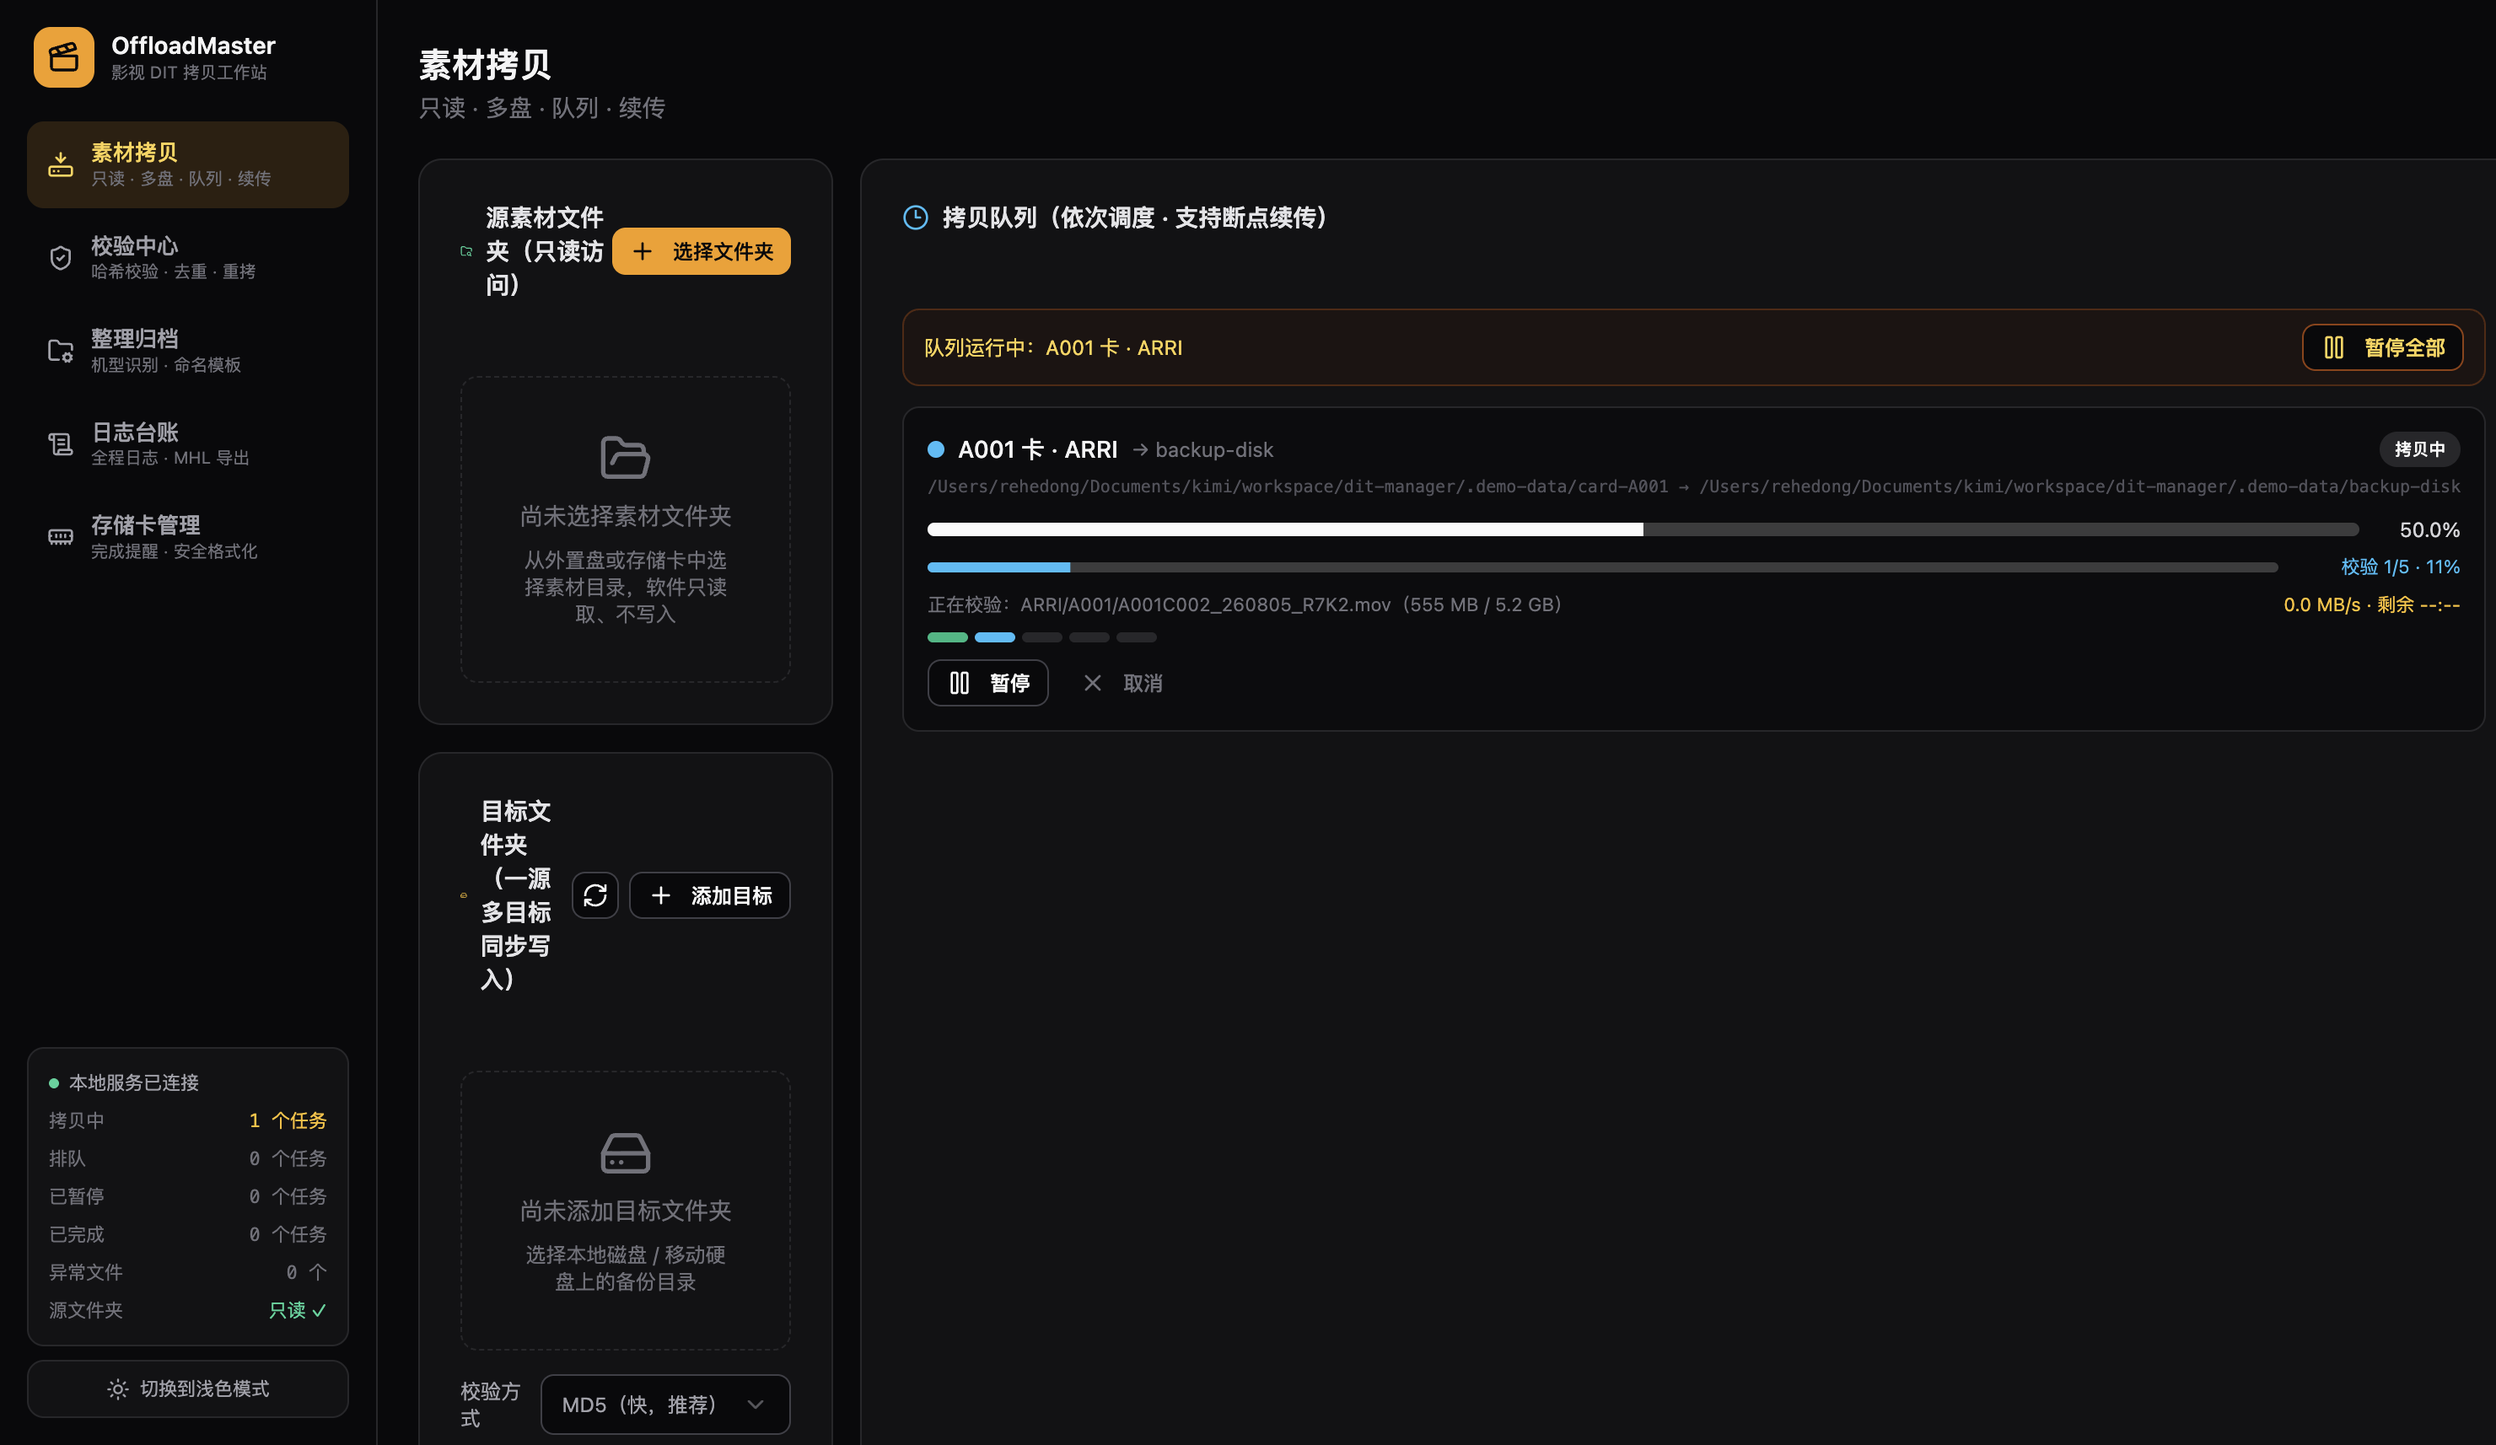
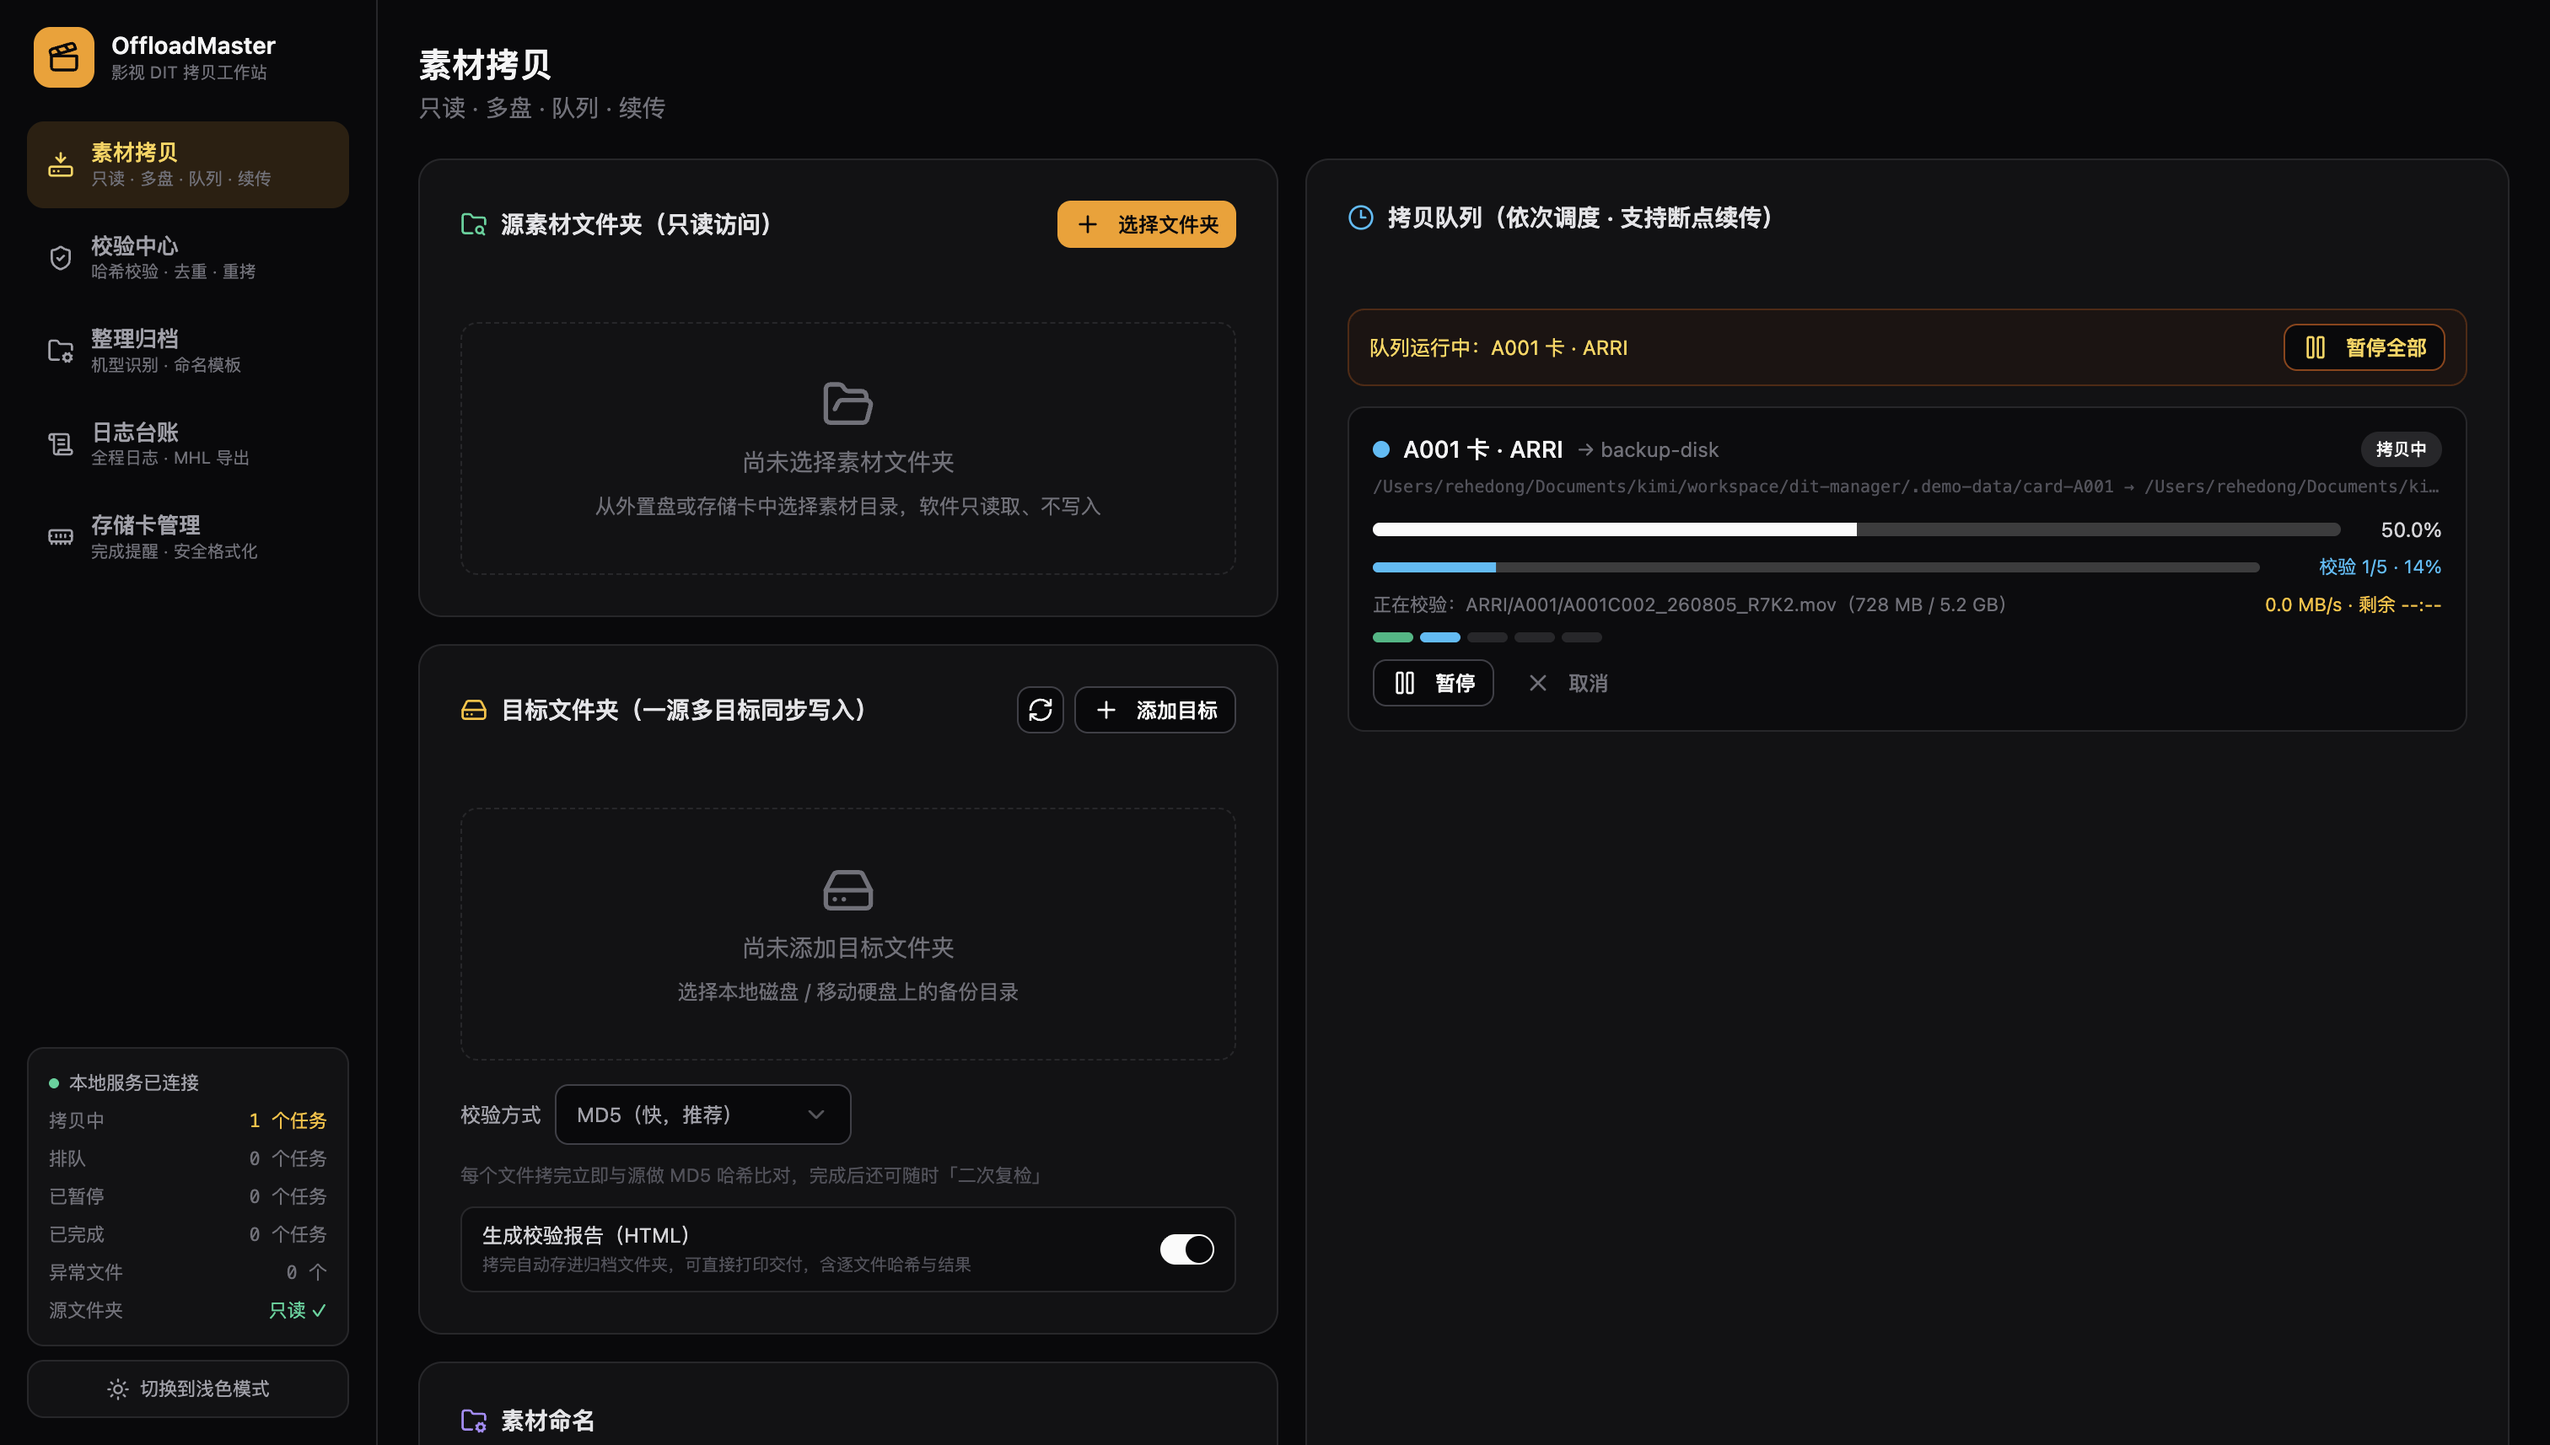
fix: 长路径不再挤压素材拷贝页左右栏比例（grid 子项加 min-w-0）；重截界面图

diff --git a/src/components/dit/CopyView.tsx b/src/components/dit/CopyView.tsx
@@ -73,8 +73,8 @@ export default function CopyView({ engine }: { engine: DitEngine }) {
 
   return (
     <div className="grid gap-4 lg:grid-cols-[1fr_1.4fr]">
-      {/* 左列：源 + 目标 */}
-      <div className="space-y-4">
+      {/* 左列：源 + 目标（min-w-0：防止长路径等内容把右列撑爆、挤压本列宽度） */}
+      <div className="min-w-0 space-y-4">
         <Card className="border-zinc-800 bg-zinc-900/60">
           <CardHeader className="pb-3">
             <div className="flex items-center justify-between">
@@ -265,8 +265,8 @@ export default function CopyView({ engine }: { engine: DitEngine }) {
         })()}
       </div>
 
-      {/* 右列：任务队列 */}
-      <Card className="border-zinc-800 bg-zinc-900/60">
+      {/* 右列：任务队列（min-w-0：长路径自动截断，不把左列挤窄） */}
+      <Card className="min-w-0 border-zinc-800 bg-zinc-900/60">
         <CardHeader className="pb-3">
           <div className="flex items-center justify-between">
             <CardTitle className="flex items-center gap-2 text-sm text-zinc-200">
